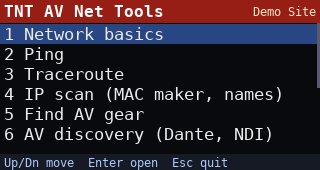
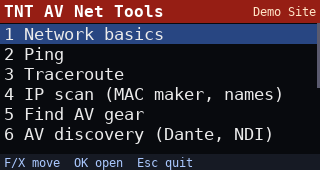
net-tools 0.2.1: CardputerZero key standard
Fn+F/X/Z/C (and plain F/X/Z/C on list screens) move up/down/left/right.
OK or Right opens, Esc or Left goes back, Esc on the main menu quits, and
holding Esc exits the app. Stop is now Q. Hints updated.

Claude-Session: https://claude.ai/code/session_01GkgDxeG2mjJ9KCWVtnQ19T

Changed region(s): [[0.0, 0.9118, 0.5938, 1.0], [0.625, 0.9412, 0.7188, 1.0]]

diff --git a/net-tools/tntnet/ui.py b/net-tools/tntnet/ui.py
@@ -94,7 +94,7 @@ def window(lines: list, cursor: int, rows: int, top: int) -> tuple[int, int]:
 class Menu(Screen):
     """A list of (label, action). Action is a callable(app)."""
 
-    def __init__(self, title: str, items: list, hint: str = "Up/Dn move  Enter open  Esc"):
+    def __init__(self, title: str, items: list, hint: str = "F/X move  OK open  Esc back"):
         self.title, self.items, self.hint = title, items, hint
         self.cur = 0
 
@@ -110,13 +110,14 @@ class Menu(Screen):
         return View(self.title, [Line(t) for t in self.labels()], self.hint, self.cur)
 
     def on_key(self, k: Key, app) -> None:
-        if k.name == "esc":
-            app.pop()
-        elif k.up:
+        nav = k.nav
+        if nav == "esc" or (nav == "left" and len(app.stack) > 1):
+            app.pop()                       # Left never quits from the main menu
+        elif nav == "up":
             self.cur = (self.cur - 1) % len(self.items)
-        elif k.down or k.name == "tab":
+        elif nav in ("down", "tab"):
             self.cur = (self.cur + 1) % len(self.items)
-        elif k.name == "enter":
+        elif nav in ("enter", "right"):
             self.items[self.cur][1](app)
         elif k.char.isdigit() and k.char != "0" and int(k.char) <= len(self.items):
             self.cur = int(k.char) - 1
@@ -139,7 +140,7 @@ class Form(Screen):
     def __init__(self, title: str, fields: list[Field], submit, note: str = ""):
         self.title, self.fields, self.submit, self.note = title, fields, submit, note
         self.cur = 0
-        self.hint = "Up/Dn field  </> choice  Enter OK  Esc"
+        self.hint = "Fn+F/X field  Fn+Z/C choice  OK  Esc"
 
     def view(self, rows: int) -> View:
         lines = []
@@ -164,7 +165,13 @@ class Form(Screen):
         elif k.name == "enter":
             self.submit({f.key: f.value.strip() if not f.secret else f.value for f in self.fields}, app)
         elif f is None:
+            if k.nav == "left":
+                app.pop()
+            elif k.nav == "right":
+                self.submit({f.key: f.value.strip() if not f.secret else f.value for f in self.fields}, app)
             return
+        elif k.name == "left" and not f.choices:
+            app.pop()
         elif f.choices and k.name in ("left", "right") or f.choices and k.char == " ":
             i = f.choices.index(f.value) if f.value in f.choices else 0
             f.value = f.choices[(i + (-1 if k.name == "left" else 1)) % len(f.choices)]
@@ -189,7 +196,7 @@ class Message(Screen):
             self.top = min(self.top + 1, max(0, len(self.lines) - 1))
         elif k.up:
             self.top = max(0, self.top - 1)
-        else:
+        elif k.nav != "right":
             app.pop()
 
 
@@ -320,14 +327,14 @@ class TaskScreen(Screen):
         picks = any(l.payload is not None for l in lines)
         state = "running... " if self.running else ""
         hint = self.saved_msg or (state + ("Enter pick  " if picks else "")
-                                  + ("X stop  " if self.running else "R rerun  ") + "S save  Esc back")
+                                  + ("Q stop  " if self.running else "R rerun  ") + "S save  Esc back")
         title = self.title if not self.running else f"{self.title} *"
         return View(title, lines, hint, cur, self.hscroll)
 
     def on_key(self, k: Key, app) -> None:
         n = len(self.out.lines)
         cur = self.cur if 0 <= self.cur < n else n - 1
-        if k.name == "esc":
+        if k.nav in ("esc", "left"):
             self.out.stop()
             app.pop()
         elif k.up:
@@ -342,11 +349,11 @@ class TaskScreen(Screen):
             self.cur = 0
         elif k.name == "end":
             self.cur = -1
-        elif k.name == "left" or k.char == ",":
+        elif k.char == ",":
             self.hscroll = max(0, self.hscroll - 10)
-        elif k.name == "right" or k.char == "/":
+        elif k.char == "/":
             self.hscroll += 10
-        elif k.char in ("x", "X"):
+        elif k.char in ("q", "Q", " "):
             self.out.stop()
         elif k.char in ("r", "R") and not self.running:
             self.start()
@@ -357,7 +364,7 @@ class TaskScreen(Screen):
                 self.saved_msg = "Saved " + os.path.basename(path)
             except OSError as e:
                 self.saved_msg = f"Save failed: {e}"
-        elif k.name == "enter" and self.on_pick and 0 <= cur < n:
+        elif k.nav in ("enter", "right") and self.on_pick and 0 <= cur < n:
             p = self.out.lines[cur].payload
             if p is not None:
                 self.on_pick(app, p)

diff --git a/net-tools/tntnet/keys.py b/net-tools/tntnet/keys.py
@@ -29,16 +29,28 @@ class Key:
     def __repr__(self) -> str:
         return f"Key({self.name or repr(self.char)}{' ctrl' if self.ctrl else ''})"
 
-    # Up/Down for lists. Besides the arrow keys (Fn layer on the
-    # CardputerZero), accept the Cardputer-style ; and . plus vi-style k/j.
+    # Navigation on list screens (menus, results, messages), where letters
+    # are not typed. The CardputerZero prints its arrows on F (up), Z (left),
+    # X (down), C (right); without Fn held those keys send plain letters, so
+    # list screens accept those letters as arrows too, plus ; . for up/down.
+    @property
+    def nav(self) -> str:
+        if self.name:
+            return self.name
+        if self.ctrl:
+            return ""
+        return LIST_ARROWS.get(self.char, "")
+
     @property
     def up(self) -> bool:
-        return self.name == "up" or (not self.ctrl and self.char in (";", "k", "K"))
+        return self.nav == "up"
 
     @property
     def down(self) -> bool:
-        return self.name == "down" or (not self.ctrl and self.char in (".", "j", "J"))
+        return self.nav == "down"
 
+
+LIST_ARROWS = {"f": "up", ";": "up", "x": "down", ".": "down", "z": "left", "c": "right"}
 
 NAMED = {1: "esc", 14: "bksp", 15: "tab", 28: "enter", 96: "enter", 103: "up", 108: "down",
          105: "left", 106: "right", 104: "pgup", 109: "pgdn", 102: "home", 107: "end", 111: "del"}
@@ -123,6 +135,19 @@ class EvdevKeyboard:
                 continue
             if code == CAPS and value == 1:
                 self.caps = not self.caps
+                continue
+            if code == 1:
+                # Short Esc = back one level; holding Esc exits the app
+                # (the CardputerZero convention). Ignore Esc auto-repeat.
+                import time as _t
+                if value == 1:
+                    self.esc_down = _t.monotonic()
+                    self.esc_done = False
+                    out.append(Key("esc"))
+                elif value == 2 and not getattr(self, "esc_done", True) \
+                        and _t.monotonic() - getattr(self, "esc_down", 0) >= 0.8:
+                    self.esc_done = True
+                    out.append(Key("exit"))
                 continue
             if value == 0:
                 continue

diff --git a/net-tools/tntnet/app.py b/net-tools/tntnet/app.py
@@ -17,7 +17,7 @@ import pygame  # noqa: E402
 from . import keys, reports, store, util  # noqa: E402
 from .ui import DIM, Field, Form, Line, Menu, Message, Renderer, Screen, TaskScreen, View  # noqa: E402
 
-VERSION = "0.1.9"
+VERSION = "0.2.1"
 
 
 class App:
@@ -96,6 +96,9 @@ class App:
             if not self.kb and not evs:
                 time.sleep(0.03)
             for k in evs:
+                if k.name == "exit":          # Esc held: leave the app
+                    self.quit = True
+                    break
                 if self.stack:
                     self.stack[-1].on_key(k, self)
             if self.stack:
@@ -356,7 +359,7 @@ def site_menu(app):
             lines = open(path, errors="replace").read().splitlines()
         except OSError as e:
             lines = [str(e)]
-        app.push(Message(f[:30], lines, "Up/Dn scroll  other key back"))
+        app.push(Message(f[:30], lines, "F/X scroll  Esc back"))
 
     app.push(Menu("Site & reports", [
         (lambda: f"Site: {app.site or '(not set)'}", set_site),
@@ -384,9 +387,9 @@ def settings_menu(app):
             "Network tools for AV techs.",
             f"Keyboard: {app.kb.path if app.kb else 'window keys'}",
             f"LCD: {app.r.lcd_dev or 'none'}  Desktop window: {'yes' if app.r.win else 'no'}",
-            "Keys: Up/Down arrows, or ; . or k j to move,",
-            "Enter pick,",
-            "Esc back, S save, R rerun, X stop.",
+            "Arrows: Fn+F up, Fn+X down, Fn+Z back, Fn+C open",
+            "(F/X/Z/C alone also work in lists). OK opens.",
+            "Esc back, S save, R rerun, Q stop.",
         ]))
 
     app.push(Menu("Settings", [
@@ -433,7 +436,7 @@ def main_menu(app) -> Menu:
         ("Network checks", checks_menu),
         (lambda: f"Site & reports [{app.site or 'no site'}]", site_menu),
         ("Settings / about", settings_menu),
-    ], "Up/Dn move  Enter open  Esc quit")
+    ], "F/X move  OK open  Esc quit")
 
 
 def shots(out_dir: str) -> None:

diff --git a/net-tools/tntnet/sniff.py b/net-tools/tntnet/sniff.py
@@ -155,7 +155,7 @@ def sniffer(out, iface: str = "", extra: str = "") -> None:
         bpf += f" or port {port}"
         PROTO_PORTS.setdefault(int(port), f"port {port}")
     cap = capture.Capture(iface, bpf, promisc=True, snaplen=4096, out=out)
-    out.dim(f"Sniffing control traffic on {iface} (promiscuous). Use a mirror port. X stops.")
+    out.dim(f"Sniffing control traffic on {iface} (promiscuous). Use a mirror port. Q stops.")
     out.dim("Crestron CIP/console, Q-SYS QRC/ECP, Extron SIS/Telnet, PJLink")
     seen = Counter()
     try:
@@ -192,7 +192,7 @@ def pcap(out, cfg, iface: str = "", bpf: str = "", seconds: str = "", max_mb: st
     dur = float(seconds) if seconds else 1e9
     with open(path, "wb") as f:
         cap = capture.Capture(iface, bpf, promisc=True, snaplen=65535, out=out, raw_sink=f)
-        out.dim(f"Capturing on {iface} (promiscuous){' filter: ' + bpf if bpf else ''}. X stops.")
+        out.dim(f"Capturing on {iface} (promiscuous){' filter: ' + bpf if bpf else ''}. Q stops.")
         out.line(f"File: {path}")
         out.line("")
         protos = Counter()

diff --git a/net-tools/tntnet/av.py b/net-tools/tntnet/av.py
@@ -123,7 +123,7 @@ def sap(out, iface: str = "", seconds: str = "35") -> None:
             except OSError:
                 pass
     s.settimeout(0.5)
-    out.dim(f"Listening for SAP/SDP (AES67, Dante AES67, RAVENNA) for {secs:.0f}s; X stops")
+    out.dim(f"Listening for SAP/SDP (AES67, Dante AES67, RAVENNA) for {secs:.0f}s; Q stops")
     out.line("")
     sessions: dict[str, dict] = {}
     t0 = time.monotonic()
@@ -347,7 +347,7 @@ def _watch(out, iface: str, seconds: float, want_ptp: bool, want_mcast: bool) ->
     if want_mcast:
         parts.append("igmp or (ip multicast and not udp port 5353 and not udp port 1900)")
     cap = capture.Capture(iface, " or ".join(f"({x})" for x in parts), promisc=False, snaplen=200, out=out)
-    out.dim(f"Watching {iface} for {seconds:.0f}s; X stops early")
+    out.dim(f"Watching {iface} for {seconds:.0f}s; Q stops early")
     out.line("")
     ptp, mc = PtpWatch(), McastWatch(joined, {x.ip for x in util.interfaces() if x.ip})
     t0, last = time.monotonic(), 0.0

diff --git a/net-tools/tntnet/checks.py b/net-tools/tntnet/checks.py
@@ -282,7 +282,7 @@ def lldp(out, iface: str = "", seconds: str = "65") -> None:
     secs = float(seconds or 65)
     cap = capture.Capture(iface, "ether proto 0x88cc or ether dst 01:00:0c:cc:cc:cc", promisc=False,
                           snaplen=2000, out=out)
-    out.dim(f"Listening on {iface} for LLDP (every ~30s) and CDP (every ~60s). X stops.")
+    out.dim(f"Listening on {iface} for LLDP (every ~30s) and CDP (every ~60s). Q stops.")
     out.line("")
     got = set()
     t0 = time.monotonic()

diff --git a/net-tools/tntnet/basics.py b/net-tools/tntnet/basics.py
@@ -98,7 +98,7 @@ def ping(out, target: str, count: str = "", size: str = "") -> None:
     if size and size.isdigit():
         cmd += ["-s", size]
     cmd.append(target)
-    out.dim("X stops. " + " ".join(cmd))
+    out.dim("Q stops. " + " ".join(cmd))
     sent = [0]
 
     def filt(line: str):

diff --git a/net-tools/README.md b/net-tools/README.md
@@ -52,15 +52,20 @@ Watches the wired port (default `eth0`) for PTP and multicast:
 
 ## Keys
 
+The CardputerZero's arrows are on the Fn layer: Fn+F up, Fn+X down, Fn+Z left, Fn+C right.
+In lists (menus and results) F, X, Z and C work without Fn too, as do `;` and `.` for up/down.
+
 | Key | Action |
 | --- | --- |
-| Up / Down (or `;` `.`) | Move |
-| Enter | Open / run / pick a device |
+| Up / Down | Move |
+| OK (Enter) or Right | Open / run / pick a device |
+| Esc or Left | Back one level (Esc quits from the main menu; Left does not) |
+| Hold Esc | Exit the app (CardputerZero standard) |
 | `1`-`9` | Jump to a menu item |
-| Esc | Back (quits from the main menu) |
-| Left / Right (or `,` `/`) | Scroll wide results sideways on the small screen; change a choice in a form |
+| Left / Right in a form | Change a choice |
+| `,` `/` | Scroll wide results sideways on the small screen |
 | PgUp / PgDn, Home / End | Page through results |
-| S / R / X | Save to site report / run again / stop |
+| S / R / Q | Save to site report / run again / stop |
 
 Keys are read straight from the CardputerZero keyboard, so they work whether or not the desktop
 window has focus.
